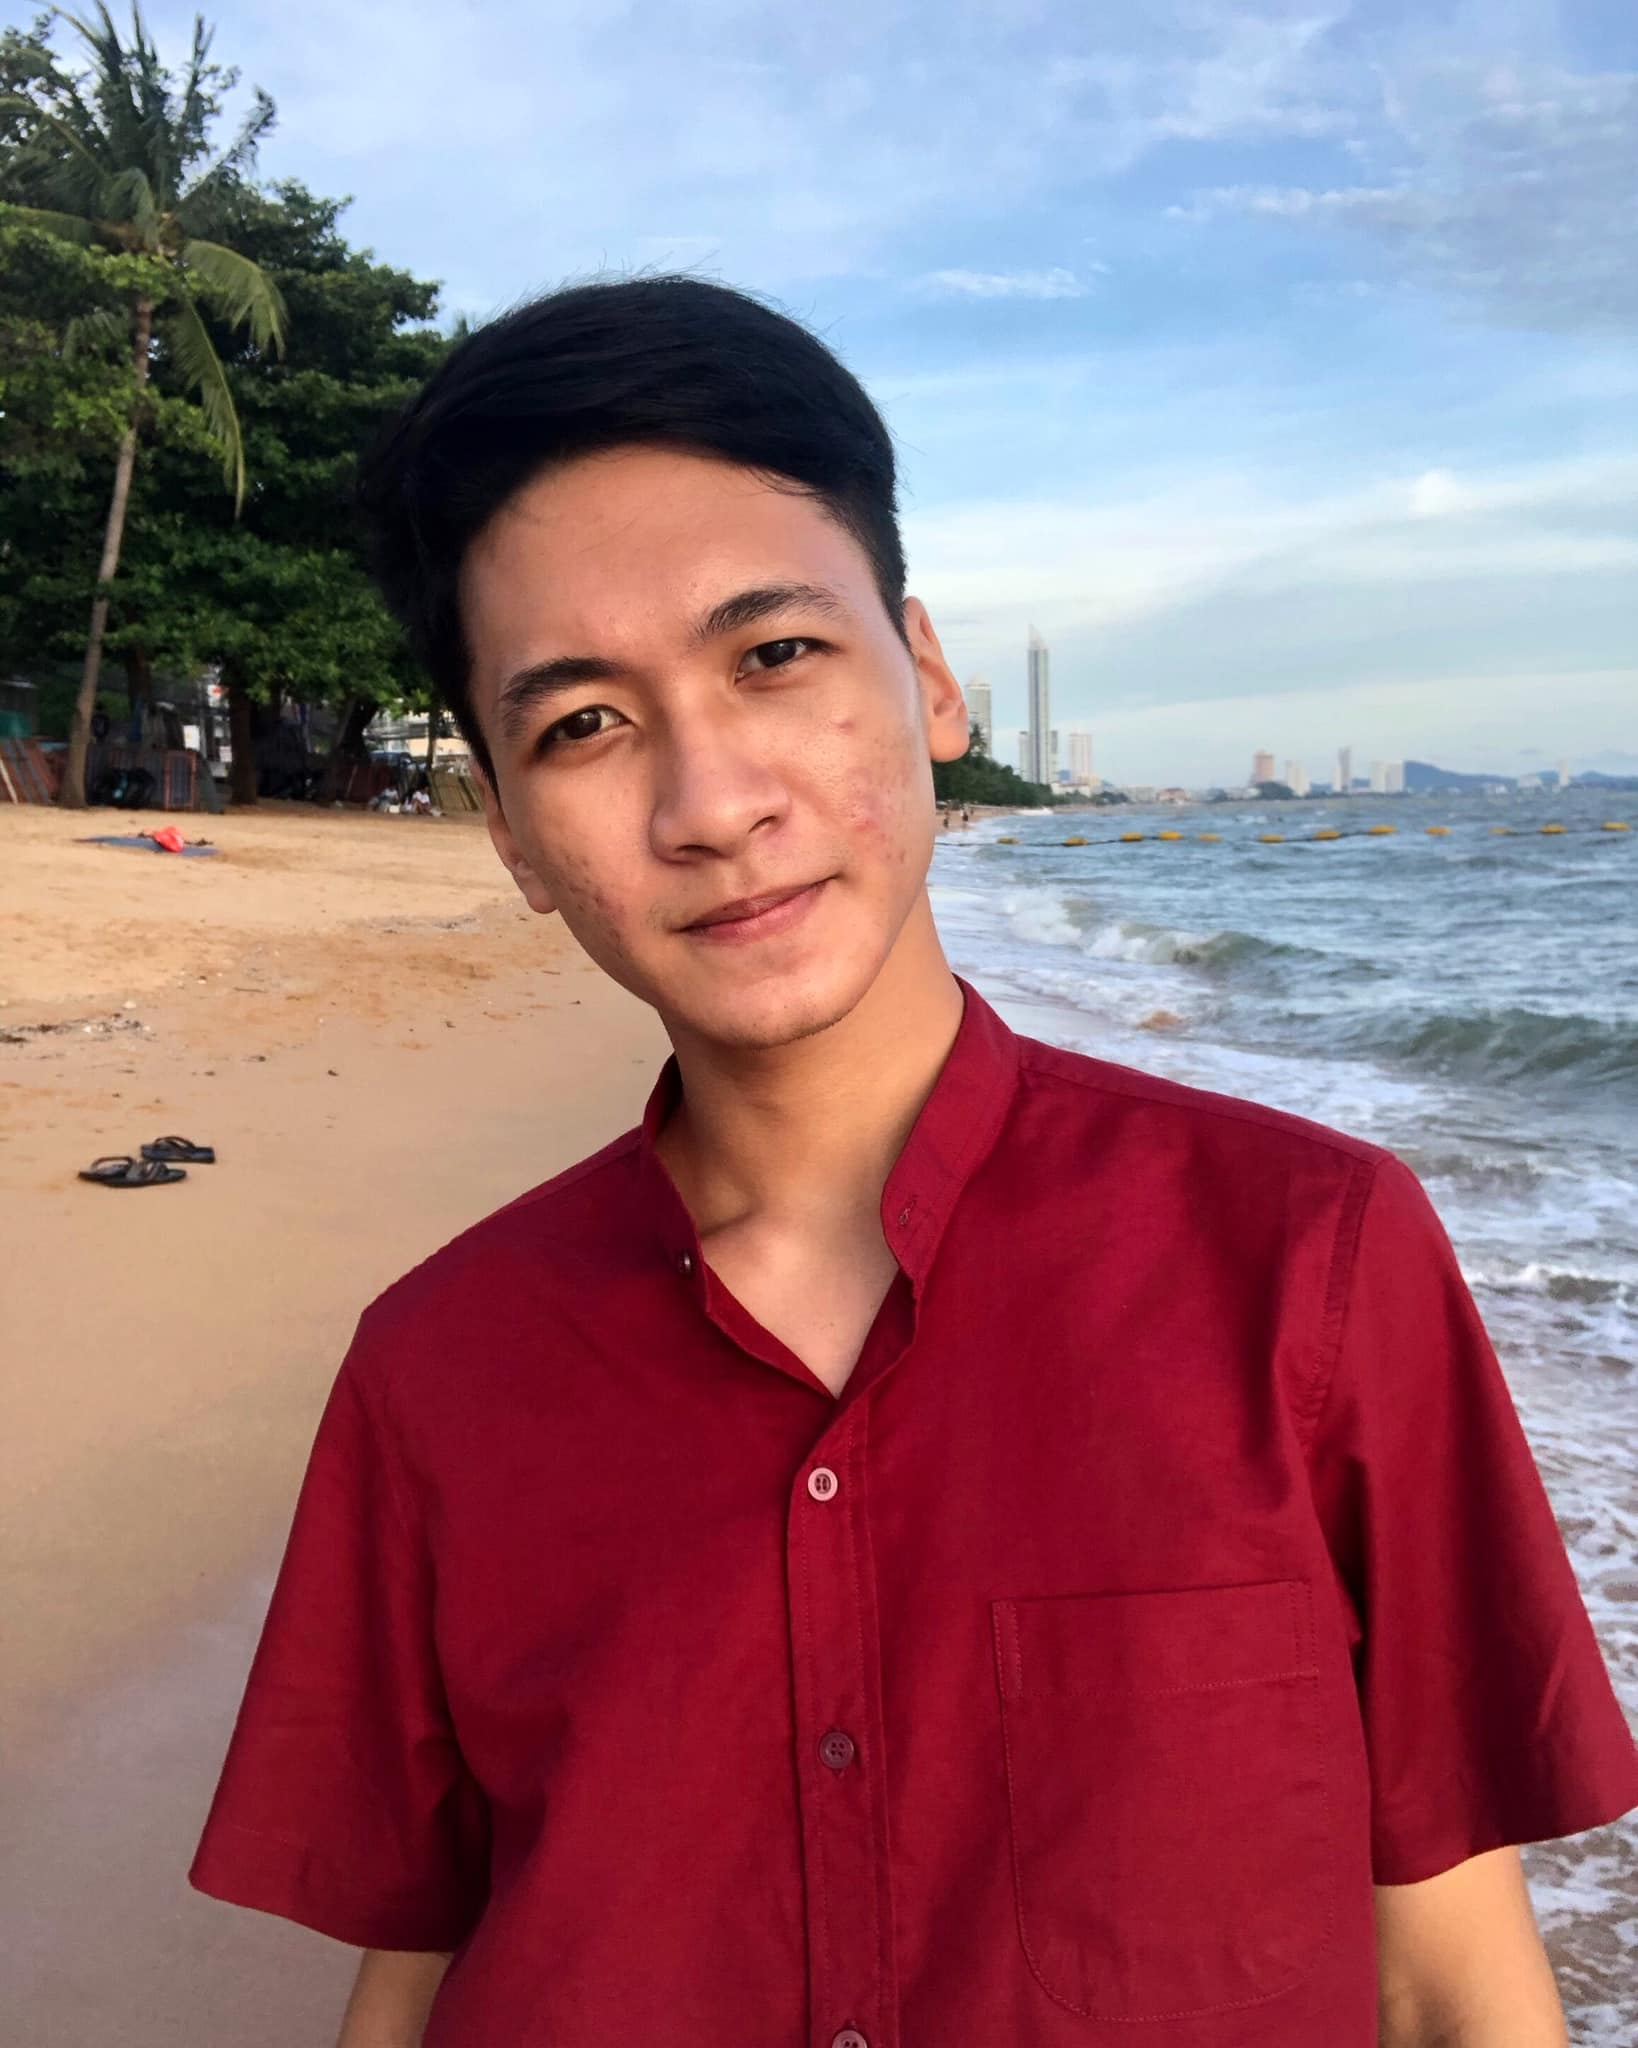
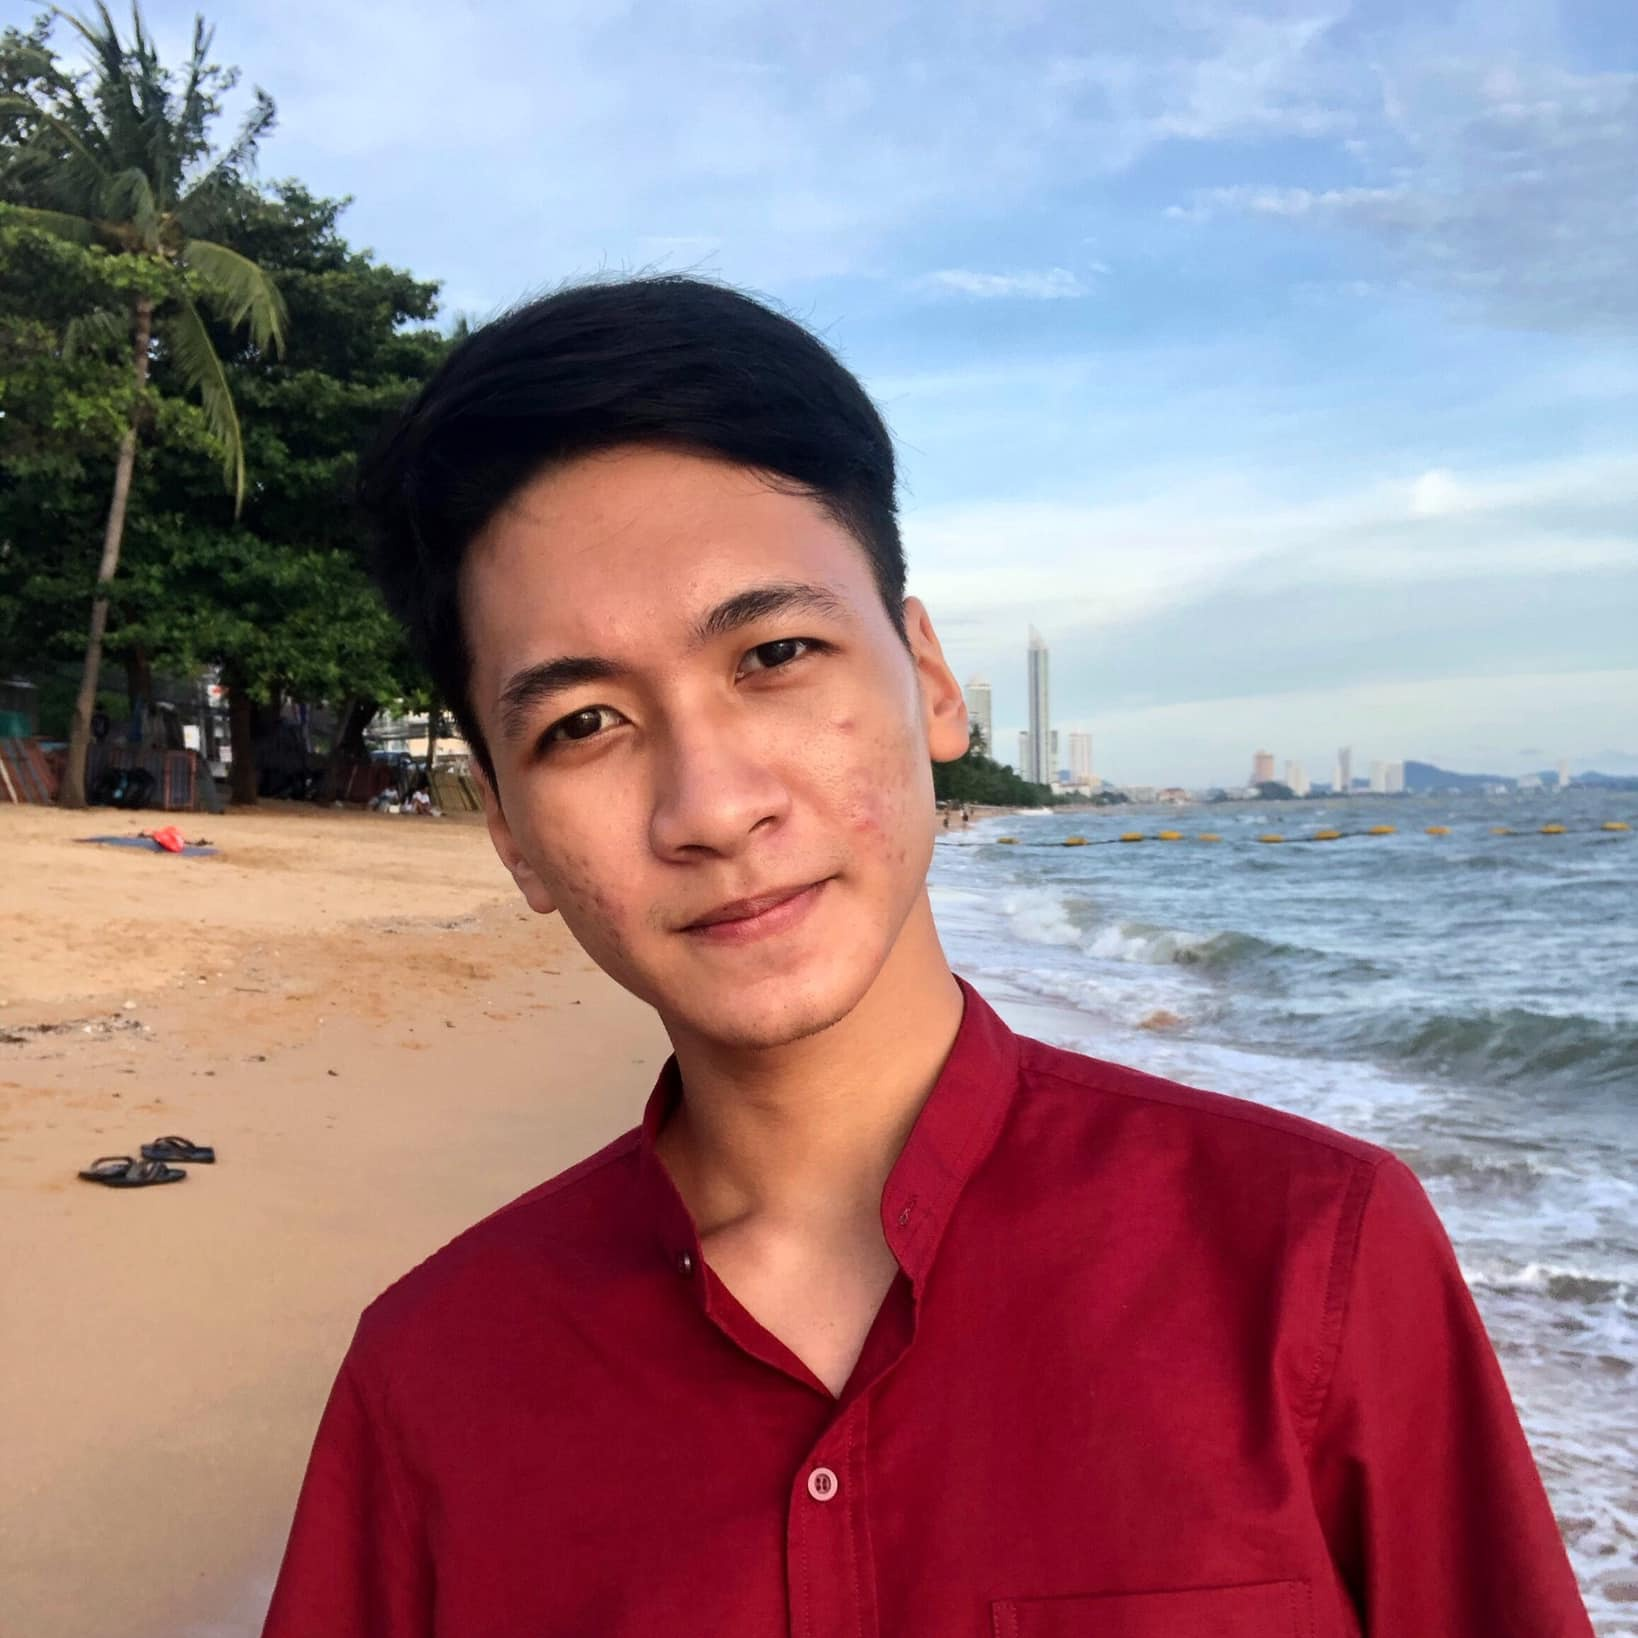
plot graph and save to excel

diff --git a/test.py b/test.py
@@ -2,13 +2,15 @@ import onnxruntime as rt
 import cv2
 import numpy as np
 import os
+import matplotlib.pyplot as plt
+import pandas as pd
 from scipy.spatial.distance import cdist
 from faceDetectorAndAlignment import faceDetectorAndAlignment
 from faceEmbeddingExtractor import faceEmbeddingExtractor
 inputStream = cv2.VideoCapture(0)
-detector = faceDetectorAndAlignment('models/faceDetector.onnx', processScale=1)
+detector = faceDetectorAndAlignment('models/faceDetector.onnx', processScale=0.35)
 embeddingExtractor = faceEmbeddingExtractor('models/r100-fast-dynamic.onnx')
-### load data
+### load store data
 faces = np.load('./storeEmbedding/embedding.npy', allow_pickle=True)
 names = np.load('./storeEmbedding/name.npy', allow_pickle=True)
 gt = np.load('./gt.npy', allow_pickle=True)
@@ -36,29 +38,40 @@ def intersection_over_union(boxA, boxB):
 	# return the intersection over union value
 	return iou
 
-for i in range(3):
-    scale = 0.5 ** (i)
+list_scale = []
+face_scale = []
+
+for i in range(12):
+    scale = 0.7 ** (i)
     print('scale:', scale)
     count = 0
+    list_pic = []
+    list_face = []
     for picName in os.listdir(directory):
         name = picName[:-4]
-        ### Store 
+        # print(name)
+        ### Load image and resize 
         img = cv2.imread(directory+'/'+picName)
         width = int(img.shape[1]*scale)
         height = int(img.shape[0]*scale)
         dim = (width, height)
         img = cv2.resize(img, dim, interpolation = cv2.INTER_AREA)
         faceBoxes, faceLandmarks, alignedFaces = detector.detect(img)
-        ### draw ground truth
+        ### resize ground truth
         if i > 0:
-            gt[count] = gt[count] * 0.5
+            gt[count] = gt[count] * 0.7
         x1A, y1A, x2A, y2A = gt[count].astype(np.int)
+        if y2A-y1A < x2A-x1A:
+            widthGT = int(y2A-y1A)
+        else:
+            widthGT = int(x2A-x1A)
         # cv2.rectangle(img, (x1A, y1A), (x2A, y2A), (0, 255, 0), 2)
         if len(faceBoxes)>0:
             for faceIdx, faceBox in enumerate(faceBoxes):
-                ### draw detection 
+                ### detection 
                 x1, y1, x2, y2 = faceBox[0:4].astype(np.int)
-                print(name, ', img size:', width, 'x', height, ', face size:', x2-x1, 'x', y2-y1, ', IoU =', intersection_over_union(faceBox,gt[count]))
+                iou = intersection_over_union(faceBox,gt[count])
+                # print(name, ', img size:', width, 'x', height, ', face size:', x2-x1, 'x', y2-y1, ', IoU =', iou)
                 # cv2.rectangle(img, (x1, y1), (x2, y2), (255, 0, 0), 2)
             
             ### recogintion
@@ -70,16 +83,108 @@ for i in range(3):
                 ### check owner
                 owner = names[np.where(dis_face == np.min(dis_face))[0]][0]
                 if owner==name:
-                    print('recognition correct')
+                    # print('recognition correct')
+                    list_pic.append((width, iou, np.min(dis_face)))
+                    list_face.append((widthGT, iou, np.min(dis_face)))
                 else:
-                    print('recognition fail and it recog to',owner)
+                    # print('recognition fail and it recog to',owner)
+                    list_pic.append((width, iou, 1.4))
+                    list_face.append((widthGT, iou, 1.4))
             else:
-                print('can not recog and min distance =',dis_face)
+                # print(name,'can not recog and min distance =',np.min(dis_face),'recog to',names[np.where(dis_face == np.min(dis_face))[0]][0])
+                list_pic.append((width, iou, np.min(dis_face)))
+                list_face.append((widthGT, iou, np.min(dis_face)))
         else:
-            print(name, ', img size:', width, 'x', height, 'can not detect')
-        ### save new img 
-        # os.chdir('./picture/result') 
-        # cv2.imwrite(name+str(scale)+'.jpg',img) 
-        # os.chdir('../../') 
+            # print(name, ', img size:', width, 'x', height, 'can not detect')
+            list_pic.append((width, 0, 1.4))
+            list_face.append((widthGT, 0, 1.4))
         count+=1
-    print('-----------------------------------------------------')
+    list_scale.append(list_pic)
+    face_scale.append(list_face)
+
+### format data image
+sizes = {}
+size = []
+detect = []
+recog = []
+
+for ls in list_scale:
+    for data in ls:
+        if data[0] in sizes:
+            # data [ size(pixel), iou, distance ]
+            # sizes [size(pixel)] = [number, iou, distance ]
+            sizes[data[0]][1] = (sizes[data[0]][1] * sizes[data[0]][0] + data[1]) / (sizes[data[0]][0]+1) 
+            sizes[data[0]][2] = (sizes[data[0]][2] * sizes[data[0]][0] + data[2]) / (sizes[data[0]][0]+1) 
+            sizes[data[0]][0] += 1
+        else:
+            sizes[data[0]] = [1, data[1], data[2]]
+for size_in_dict in sizes.keys():
+    size.append(size_in_dict)
+size = sorted(size)
+for size_in_list in size:
+    detect.append(sizes[size_in_list][1])
+    recog.append(sizes[size_in_list][2])  
+size = np.array(size)
+detect = np.array(detect)
+recog = np.array(recog)
+
+### format data face
+sizes_face = {}
+size_face = []
+detect_face = []
+recog_face = []
+
+for ls in face_scale:
+    for data in ls:
+        if data[0] in sizes_face:
+            sizes_face[data[0]][1] = (sizes_face[data[0]][1] * sizes_face[data[0]][0] + data[1]) / (sizes_face[data[0]][0]+1) 
+            sizes_face[data[0]][2] = (sizes_face[data[0]][2] * sizes_face[data[0]][0] + data[2]) / (sizes_face[data[0]][0]+1) 
+            sizes_face[data[0]][0] += 1
+        else:
+            sizes_face[data[0]] = [1, data[1], data[2]]
+for size_in_dict in sizes_face.keys():
+    size_face.append(size_in_dict)
+size_face = sorted(size_face)
+for size_in_list in size_face:
+    detect_face.append(sizes_face[size_in_list][1])
+    recog_face.append(sizes_face[size_in_list][2])  
+size_face = np.array(size_face)
+detect_face = np.array(detect_face)
+recog_face = np.array(recog_face)
+
+### save to excel
+# image
+data = []
+for i in range(len(size)):
+    data.append([size[i], detect[i], recog[i]])
+df = pd.DataFrame (data, columns=['size','IoU','min distance'])
+df.to_excel('result_image2.xlsx')
+# face
+data = []
+for i in range(len(size_face)):
+    data.append([size_face[i], detect_face[i], recog_face[i]])
+df = pd.DataFrame (data, columns=['size','IoU','min distance'])
+df.to_excel('result_face2.xlsx')
+
+### plot graph
+graph = [detect, detect_face, recog, recog_face]
+labels = ["IoU", "IoU", "distance", "distance"]
+colors = ["b", "g", "b","g"]
+
+f,axs = plt.subplots(2,2)
+
+# ---- loop over axes ----
+for i,ax in enumerate(axs.flat):
+    if i==0 or i==2:
+        x = size
+    else:
+        x = size_face
+    ax.plot(x, graph[i],color=colors[i],label=labels[i])
+    ax.grid()
+    ax.legend(loc="upper right")
+    if i==0:
+        ax.set_title('image')
+    elif i==1:
+        ax.set_title('face')
+plt.setp(axs[-1, :], xlabel='size (pixel)')
+plt.show()

diff --git a/run.py b/run.py
@@ -4,8 +4,9 @@ import numpy as np
 from scipy.spatial.distance import cdist
 from faceDetectorAndAlignment import faceDetectorAndAlignment
 from faceEmbeddingExtractor import faceEmbeddingExtractor
+### camera ???
 inputStream = cv2.VideoCapture(0)
-detector = faceDetectorAndAlignment('models/faceDetector.onnx', processScale=0.5)
+detector = faceDetectorAndAlignment('models/faceDetector.onnx', processScale=1)
 embeddingExtractor = faceEmbeddingExtractor('models/r100-fast-dynamic.onnx')
 ### load data
 faces = np.load('./storeEmbedding/embedding.npy', allow_pickle=True)
@@ -28,11 +29,13 @@ while True:
                 ### find min distance
                 dis_face = distance[faceIdx]
                 # print(dis_face)
-                if np.min(dis_face) < 1:
+                if np.min(dis_face) < 0.9:
                     ### Draw owner
                     owner = name[np.where(dis_face == np.min(dis_face))[0]][0]
                     print(owner)
-                    cv2.putText(inputFrame, owner, (x1,y1-5), cv2.FONT_HERSHEY_COMPLEX, 0.7,(255,255,255),2)                   
+                    cv2.putText(inputFrame, owner, (x1,y1-5), cv2.FONT_HERSHEY_COMPLEX, 0.7,(255,255,255),2)   
+                else:
+                    cv2.putText(inputFrame, 'Unknowed', (x1,y1-5), cv2.FONT_HERSHEY_COMPLEX, 0.7,(255,255,255),2)   
         cv2.imshow('Video Frame', inputFrame)
         if cv2.waitKey(1) == ord('q'):
             break

diff --git a/saveGT.py b/saveGT.py
@@ -12,14 +12,15 @@ directory = './picture/forTest'
 count = True
 for picName in os.listdir(directory):
     name = picName[:-4] 
-    print(name)
+    # print(name)
     ### Store 
     img = cv2.imread(directory+'/'+picName)
     faceBoxes, faceLandmarks, alignedFaces = detector.detect(img)
     extractEmbedding = embeddingExtractor.extract(alignedFaces)
     for faceIdx, faceBox in enumerate(faceBoxes):
         x1, y1, x2, y2 = faceBox[0:4].astype(np.int)
-        print(x1,x2,y1,y2)
+        # print(x1,x2,y1,y2)
+        cv2.rectangle(img, (x1, y1), (x2, y2), (0, 255, 0), 2)
         ### gt is ground truth
         if count :
             gt = []
@@ -28,4 +29,7 @@ for picName in os.listdir(directory):
         gt = np.append(gt, [x1,y1,x2,y2])
         np.save('./gt.npy', gt)
         count = False
+        os.chdir('./picture/GT_forTest')
+        cv2.imwrite(picName,img)
+        os.chdir('../../')
 

diff --git a/resizeToSquare.py b/resizeToSquare.py
@@ -1,0 +1,21 @@
+import onnxruntime as rt
+import cv2
+import numpy as np
+import os
+
+directory = './forTest'
+os.chdir('./picture')
+for picName in os.listdir(directory):
+    name = picName[:-4]
+    ### Store 
+    img = cv2.imread(directory+'/'+picName)
+    width = int(img.shape[1])
+    height = int(img.shape[0])
+    if width<height:
+        resize = img[:width,:width]
+    else:
+        resize = img[:height,width-height:width]
+    os.chdir('./forTest')
+    cv2.imwrite(picName,resize)
+    os.chdir('../')
+print('-----------------------------------------------------')
